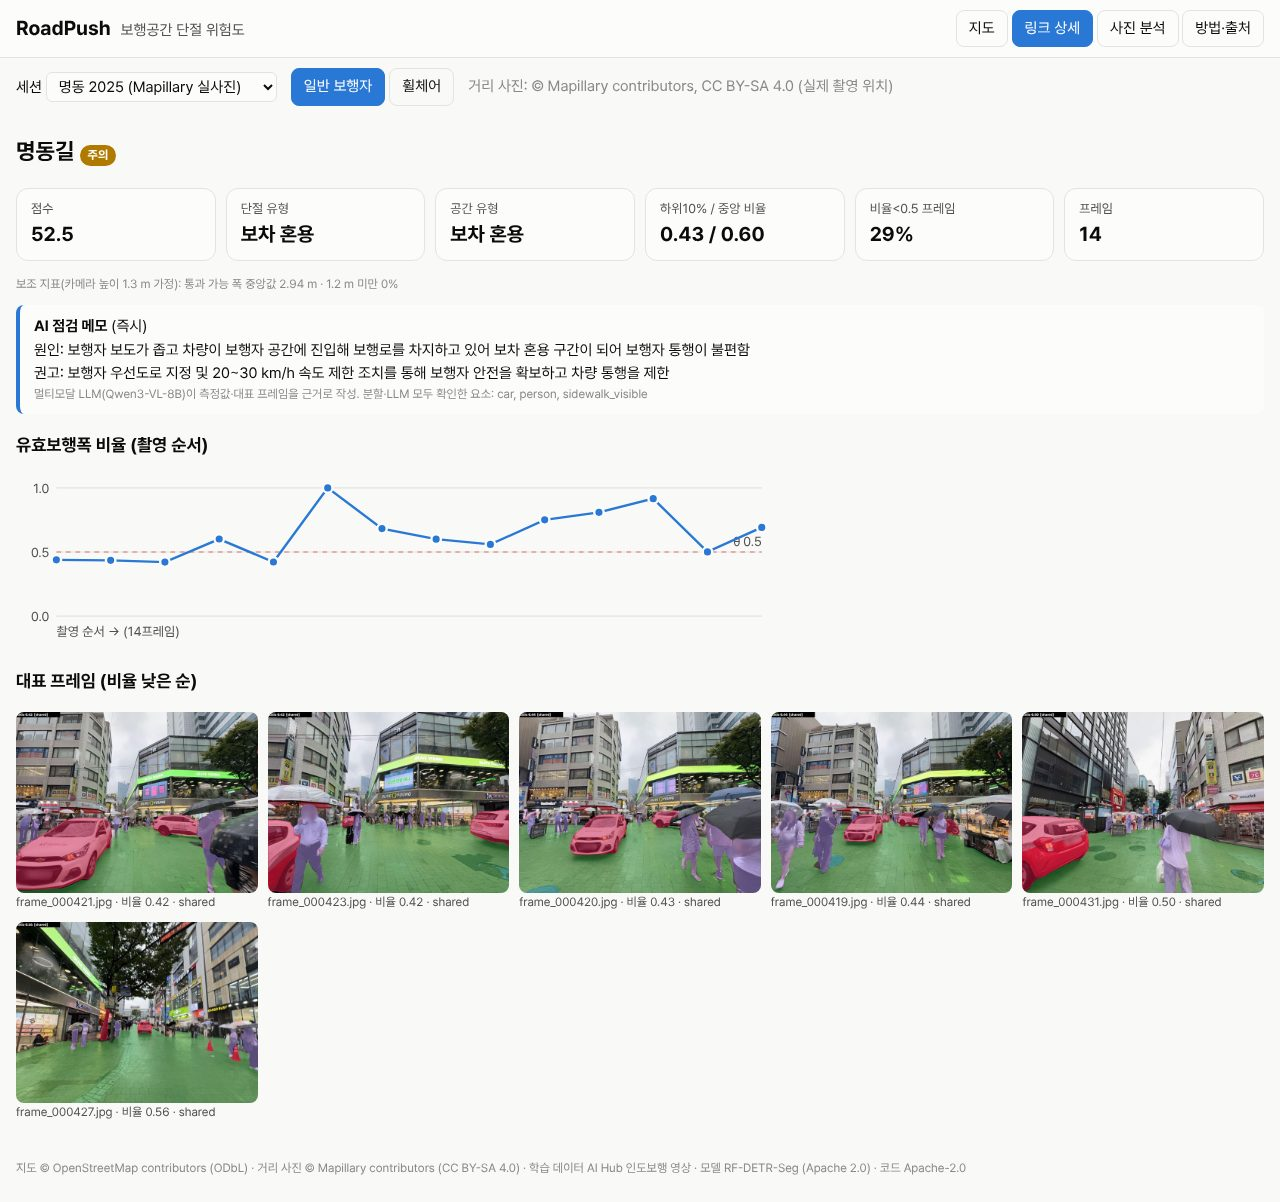
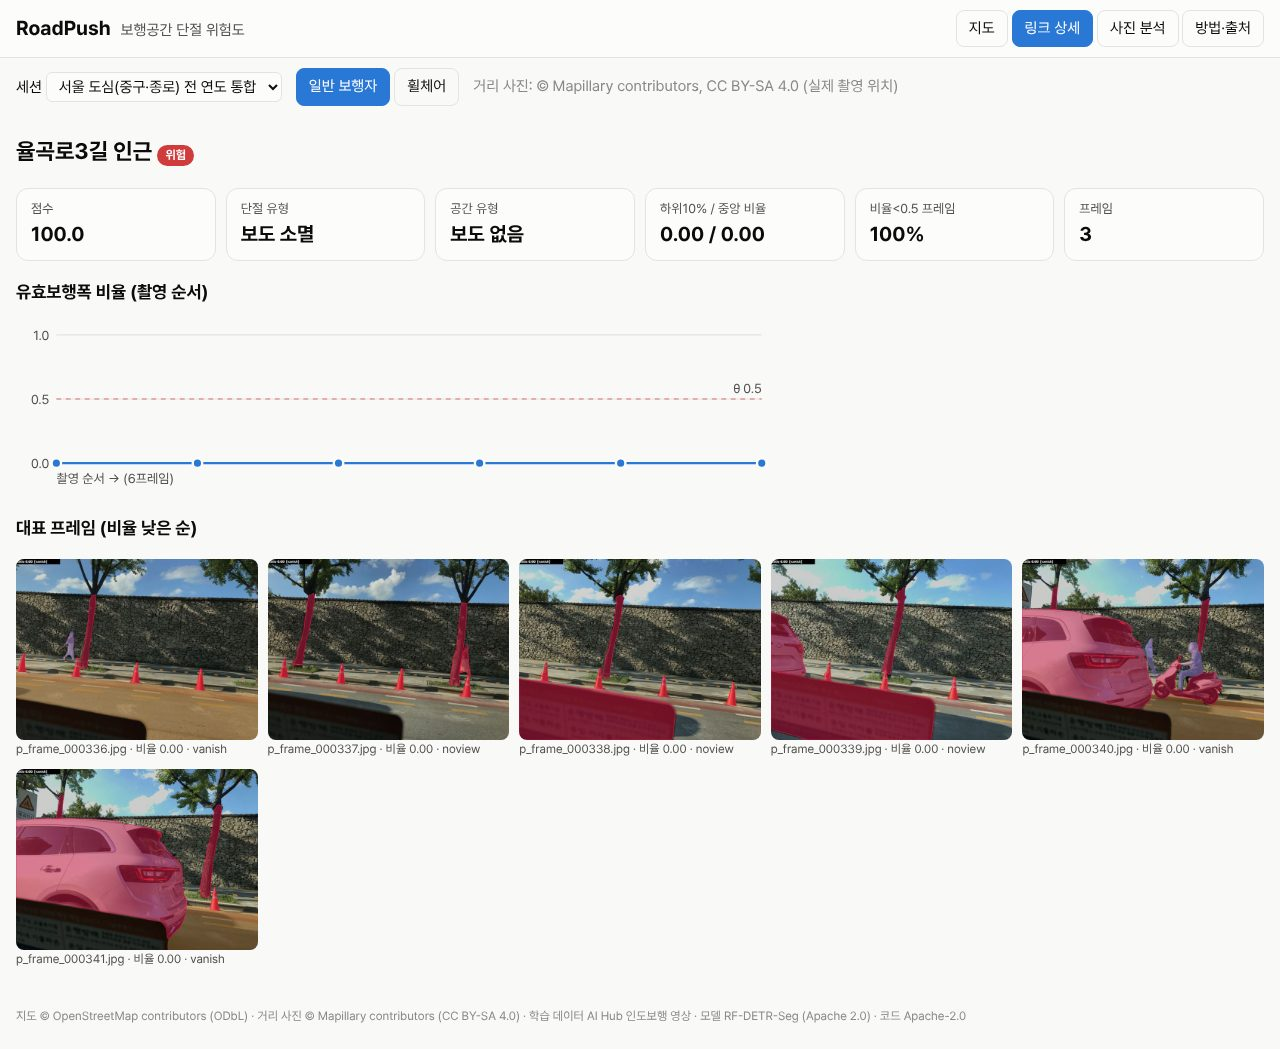
웹앱: 도심 통합 세션(466 링크·28 km), 이름 없는 링크에 인근 도로명. README 스크린샷 갱신

diff --git a/scripts/build_static.py b/scripts/build_static.py
@@ -70,14 +70,39 @@ def _round_geom(g):
     return {**g, "coordinates": r(g["coordinates"])}
 
 
-def build_session(src: Path, out: Path, width: int) -> int:
+def nearby_names(gj: dict, base_links: Path, max_m: float = 50.0) -> dict[str, str]:
+    """이름 없는 링크(OSM 보행로·골목) → 가장 가까운 이름 있는 링크의 도로명 + ' 인근'. 담당자가 위치를 알아보게."""
+    import geopandas as gpd
+    from shapely.geometry import shape
+
+    named = gpd.read_file(base_links)
+    named = named[named["name"].fillna("") != ""].to_crs(5179)
+    tree = named.sindex
+    out = {}
+    for f in gj["features"]:
+        p = f["properties"]
+        if p.get("name"):
+            continue
+        g = gpd.GeoSeries([shape(f["geometry"])], crs=4326).to_crs(5179).iloc[0]
+        idx = tree.query(g.buffer(max_m))
+        if len(idx):
+            cand = named.iloc[idx]
+            near = cand.iloc[cand.distance(g).argmin()]
+            out[p["link_id"]] = f"{near['name']} 인근"
+    return out
+
+
+def build_session(src: Path, out: Path, width: int, base_links: Path | None = None) -> int:
     from PIL import Image
 
     out.mkdir(parents=True, exist_ok=True)
     gj = json.loads((src / "links_scored.geojson").read_text())
+    fill = nearby_names(gj, base_links) if base_links else {}
     feats = []
     for f in gj["features"]:
         p = {k: f["properties"].get(k) for k in KEEP}
+        if not p.get("name") and p["link_id"] in fill:
+            p["name"] = fill[p["link_id"]]
         feats.append({"type": "Feature", "properties": p, "geometry": _round_geom(f["geometry"])})
     (out / "links.geojson").write_text(json.dumps({"type": "FeatureCollection", "features": feats}, ensure_ascii=False))
 
@@ -116,7 +141,8 @@ def main(argv: list[str] | None = None) -> None:
     ap.add_argument("--out", type=Path, default=ROOT / "dist" / "static")
     ap.add_argument("--session", action="append", required=True, help="<app/data 세션 id>:<제목>")
     ap.add_argument("--data", type=Path, default=ROOT / "app" / "data")
-    ap.add_argument("--links", type=Path, default=ROOT / "data/links/jung_gu.geojson")
+    ap.add_argument("--links", type=Path, default=ROOT / "data/links/downtown.geojson",
+                    help="배경 링크 + 이름 없는 링크의 인근 도로명 조회용")
     ap.add_argument("--onnx", nargs="+", type=Path, required=True)
     ap.add_argument("--meta", type=Path, default=ROOT / "outputs/onnx/meta.json")
     ap.add_argument("--samples", nargs="*", type=Path, default=[])
@@ -136,7 +162,7 @@ def main(argv: list[str] | None = None) -> None:
     sessions = []
     for spec in args.session:
         sid, _, title = spec.partition(":")
-        n = build_session(args.data / sid, data / sid, args.width)
+        n = build_session(args.data / sid, data / sid, args.width, args.links)
         sessions.append({"id": sid, "title": title or sid, "attribution": (args.data / sid / "attribution.json").exists(),
                          "simulation": sid.startswith("sim_")})
         print(f"  {sid}: overlay {n}장")

diff --git a/README.md b/README.md
@@ -4,7 +4,7 @@
 2026 AI 라이프 솔루션 챌린지(산업통상부·KEIT) 출품작 · 아이디어 챌린지 후보작 *RoadPush* 구현.
 
 - 1차 사용자: 지자체·도로관리기관 보도 담당자 — 어디부터 단속·정비할지 우선순위
-- 대상 지역: 서울 도심(중구 명동·을지로, 종로) — 공개 거리 사진(Mapillary, CC BY-SA)의 실제 촬영 위치
+- 대상 지역: 서울 도심(중구·종로) **466개 링크 · 28.4 km** — 공개 거리 사진(Mapillary, CC BY-SA) 7,559장(360° 변환 포함)의 실제 촬영 위치
 - **웹앱(테스트 URL)**: https://huggingface.co/spaces/YunSangNam/roadpush — 서버 없는 정적 웹앱, 사진 분석은 브라우저 안에서 실행 *(제출 전까지 비공개)*
 
 진행 기록 [PROGRESS.md](PROGRESS.md) · 결과 수치 [docs/results.md](docs/results.md) · 계획 [PLAN.md](PLAN.md)
